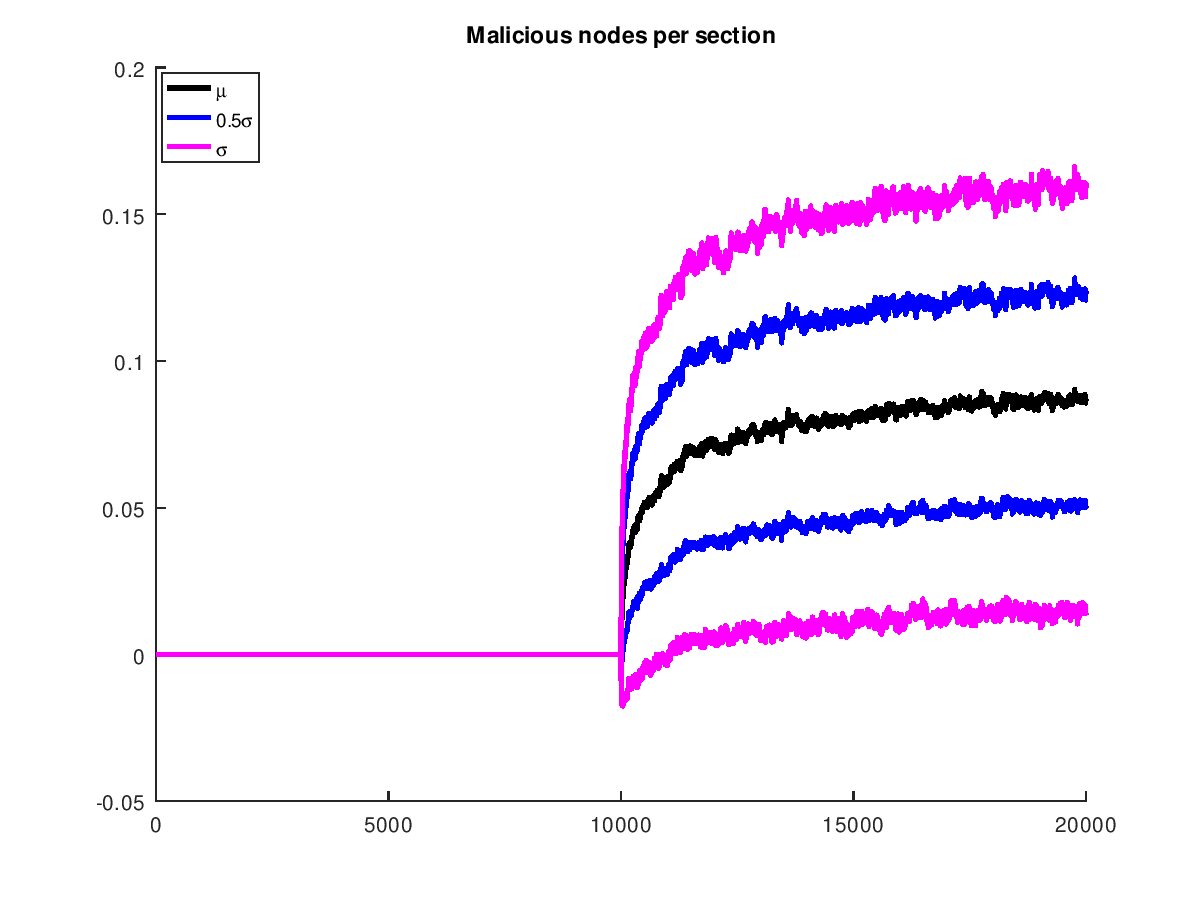
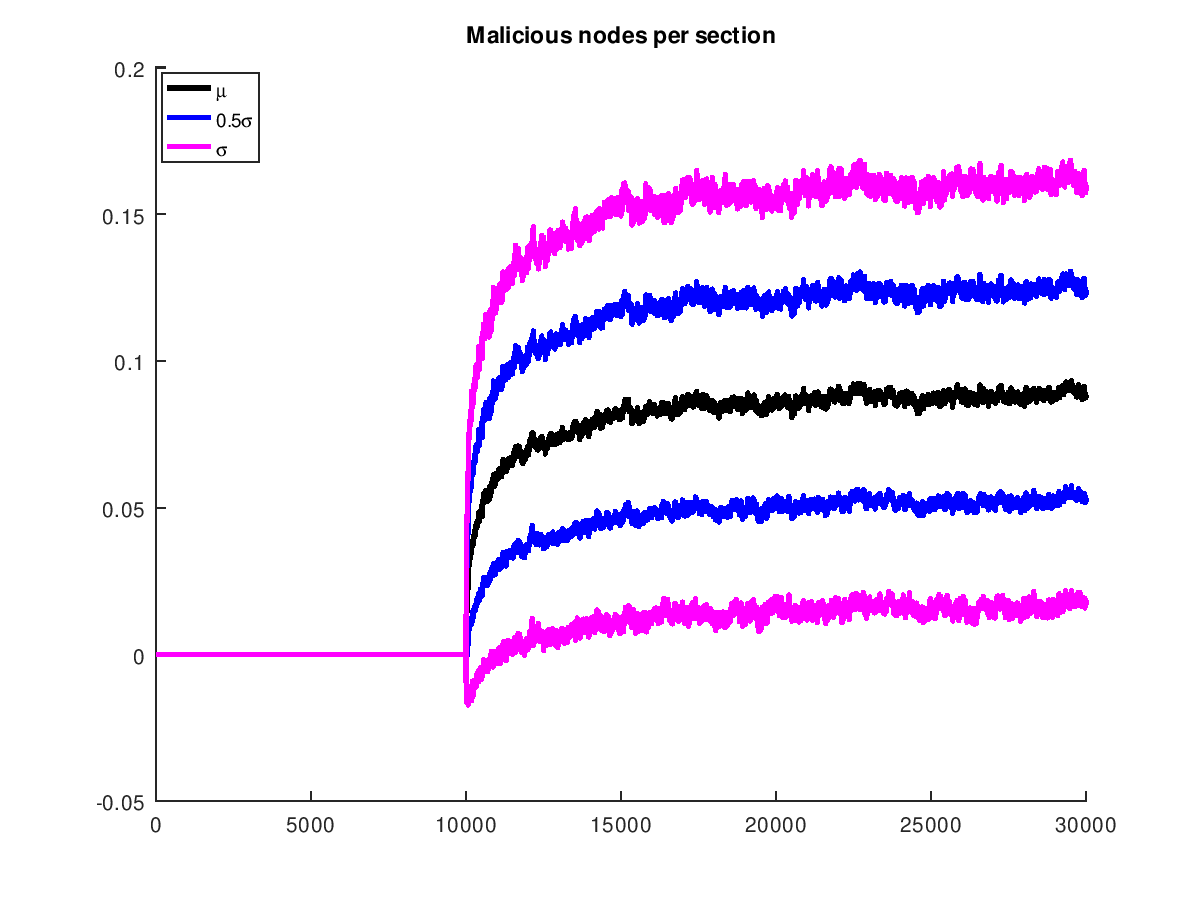
Add a few more scenarios

diff --git a/model_with_sections.m b/model_with_sections.m
@@ -2,14 +2,34 @@ clear all
 figure(2); clf
 figure(3); clf
 
-network_iterations = 20000;
+network_iterations = 30000;
 init_iterations = 10000;
 
 number_of_sections = 1000;
-start_section_size = 16;
-max_section_size = 40;
-min_section_size = 8;
-fraction_of_new_nodes_are_malicious = 0.10;
+
+% Scenario A
+%start_section_size = 16;
+%max_section_size = 40;
+%min_section_size = 8;
+%fraction_of_new_nodes_are_malicious = 0.10;
+
+% Scenario B
+%start_section_size = 32;
+%max_section_size = 80;
+%min_section_size = 16;
+%fraction_of_new_nodes_are_malicious = 0.10;
+
+% Scenario C
+%start_section_size = 16;
+%max_section_size = 40;
+%min_section_size = 8;
+%fraction_of_new_nodes_are_malicious = 0.20;
+
+% Scenario D
+start_section_size = 32;
+max_section_size = 80;
+min_section_size = 16;
+fraction_of_new_nodes_are_malicious = 0.20;
 
 section_stalled_threshold = 1/3;
 section_compromised_threshold = 2/3;
